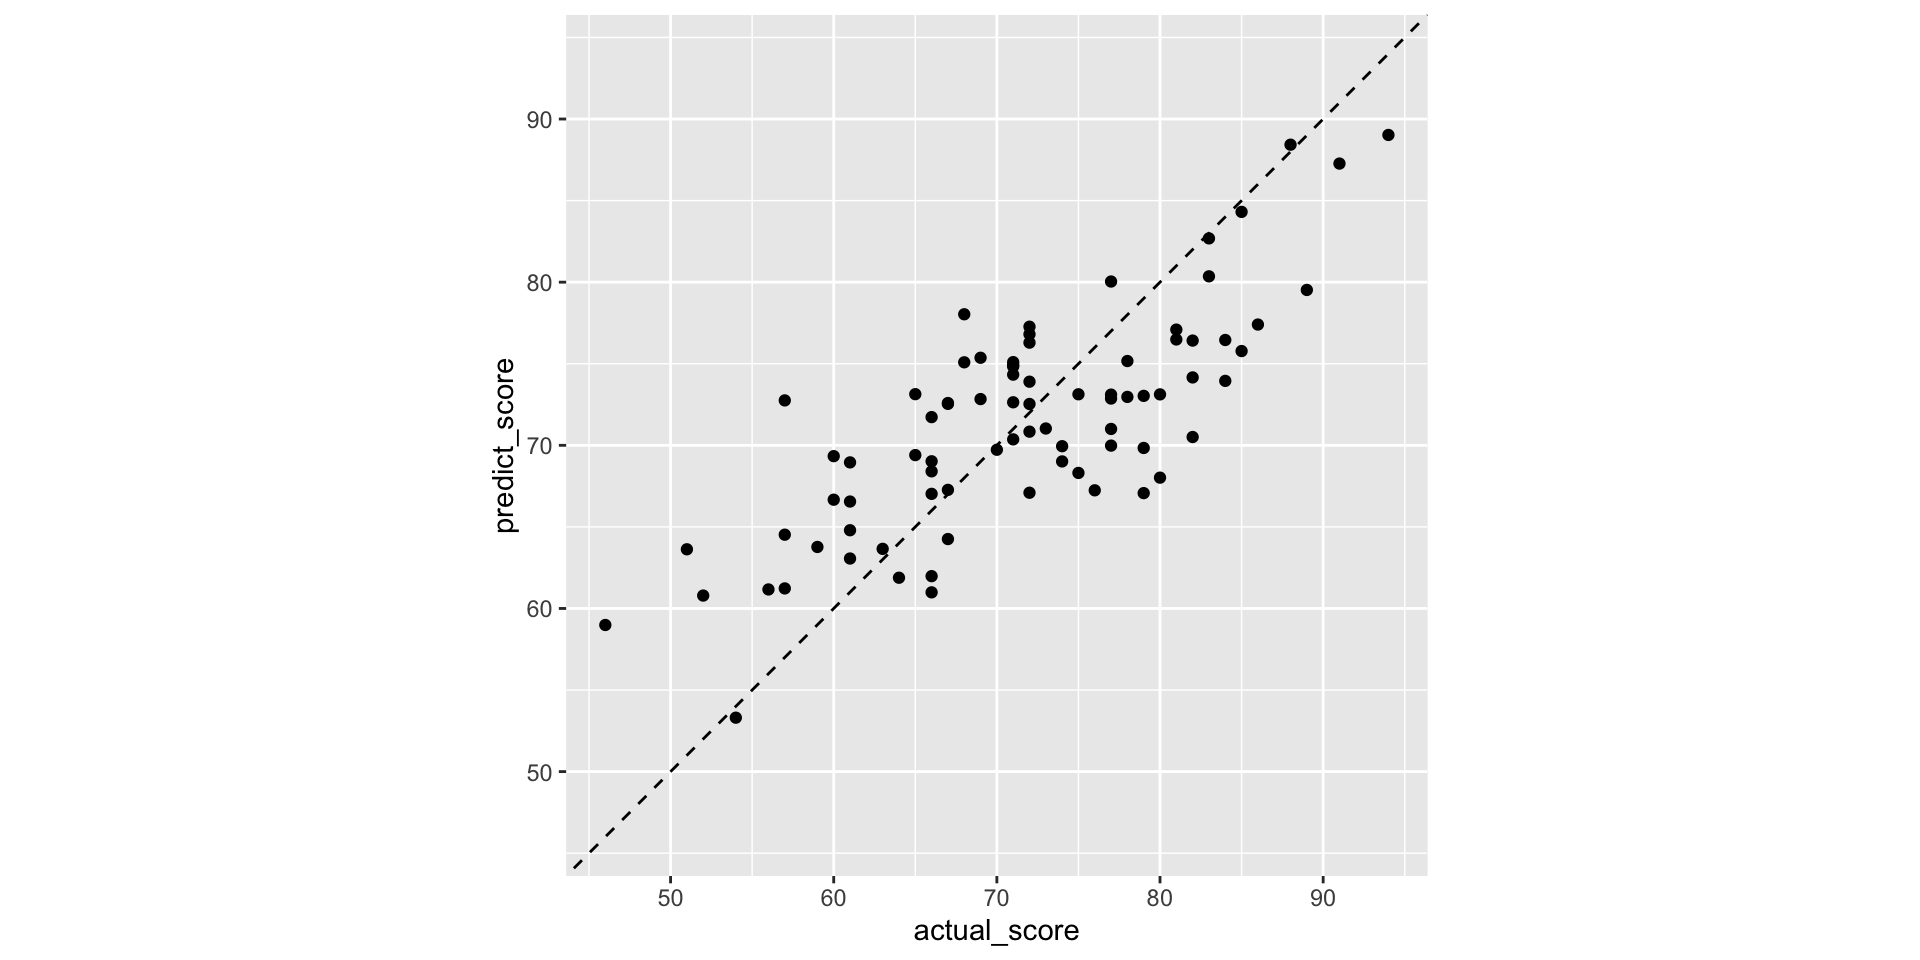
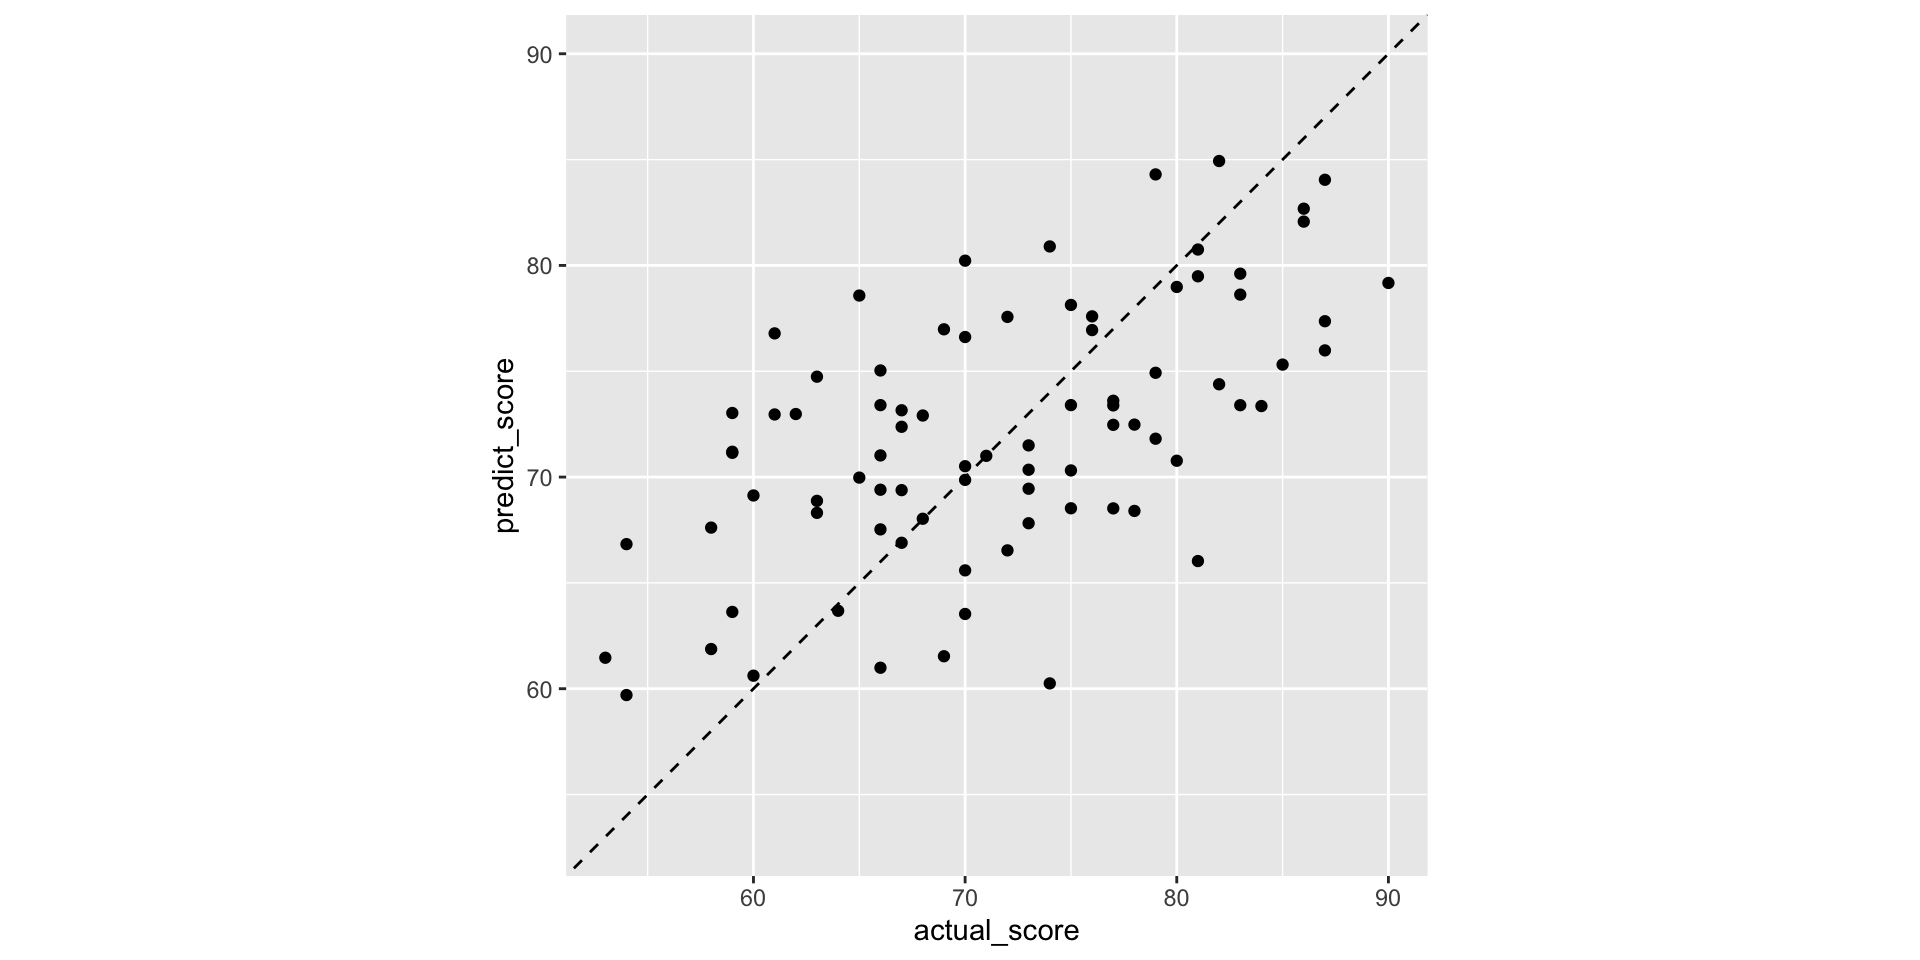
update footnote

diff --git a/MachineLearning/week01/introduction.html b/MachineLearning/week01/introduction.html
@@ -877,25 +877,25 @@ lm(formula = research_score ~ ., data = train_data)
 
 Residuals:
      Min       1Q   Median       3Q      Max 
--17.9964  -4.8771   0.3457   4.5288  18.9256 
+-18.6684  -4.5291   0.3305   4.6254  19.2074 
 
 Coefficients:
-                     Estimate Std. Error t value Pr(&gt;|t|)    
-(Intercept)          41.75668    4.95983   8.419 1.69e-15 ***
-choose_method         0.06877    0.02676   2.570 0.010659 *  
-concepts              0.15863    0.02967   5.347 1.80e-07 ***
-interpretation        0.19005    0.02959   6.422 5.39e-10 ***
-submit_time          -0.02495    0.01573  -1.586 0.113782    
-percent_submit        0.14318    0.03911   3.661 0.000298 ***
-learning_performance  0.05351    0.03893   1.374 0.170378    
-cheat_index          -2.69371    2.36279  -1.140 0.255192    
+                      Estimate Std. Error t value Pr(&gt;|t|)    
+(Intercept)          37.907590   4.961074   7.641 3.09e-13 ***
+choose_method         0.104122   0.025060   4.155 4.27e-05 ***
+concepts              0.149659   0.029413   5.088 6.47e-07 ***
+interpretation        0.212339   0.029799   7.126 8.08e-12 ***
+submit_time          -0.008356   0.016194  -0.516 0.606253    
+percent_submit        0.143992   0.036866   3.906 0.000117 ***
+learning_performance  0.070422   0.035977   1.957 0.051248 .  
+cheat_index          -4.754186   2.351948  -2.021 0.044149 *  
 ---
 Signif. codes:  0 '***' 0.001 '**' 0.01 '*' 0.05 '.' 0.1 ' ' 1
 
-Residual standard error: 7.18 on 294 degrees of freedom
-  (1 observation deleted due to missingness)
-Multiple R-squared:  0.4515,    Adjusted R-squared:  0.4384 
-F-statistic: 34.57 on 7 and 294 DF,  p-value: &lt; 2.2e-16</code></pre>
+Residual standard error: 6.899 on 293 degrees of freedom
+  (2 observations deleted due to missingness)
+Multiple R-squared:  0.5166,    Adjusted R-squared:  0.505 
+F-statistic: 44.73 on 7 and 293 DF,  p-value: &lt; 2.2e-16</code></pre>
 </div>
 </div>
 <ul>
@@ -912,12 +912,12 @@ F-statistic: 34.57 on 7 and 294 DF,  p-value: &lt; 2.2e-16</code></pre>
 <pre><code># A tibble: 6 × 2
   predict_score actual_score
           &lt;dbl&gt;        &lt;dbl&gt;
-1          73.9           72
-2          72.5           72
-3          74.3           71
-4          70.8           72
-5          69.8           79
-6          75.8           85</code></pre>
+1          78.1           75
+2          80.9           74
+3          77.0           69
+4          67.8           73
+5          79.6           83
+6          70.3           73</code></pre>
 </div>
 </div>
 <ul>
@@ -951,7 +951,7 @@ F-statistic: 34.57 on 7 and 294 DF,  p-value: &lt; 2.2e-16</code></pre>
 <pre><code># A tibble: 1 × 2
    rmse    r2
   &lt;dbl&gt; &lt;dbl&gt;
-1  6.22 0.607</code></pre>
+1  7.29 0.342</code></pre>
 </div>
 </div>
 <p>ผลการวิเคราะห์ข้างต้นเป็นประสิทธิภาพในของโมเดลที่เรียนรู้ใน <code>train_data</code> บนชุดข้อมูล <code>test_data</code></p>
@@ -991,7 +991,7 @@ Source: https://scott.fortmann-roe.com/docs/BiasVariance.html
 <div class="quarto-auto-generated-content">
 <p><img src="https://github.com/ssiwacho/picture/blob/main/datakruroo.png?raw=true" class="slide-logo"></p>
 <div class="footer footer-default">
-<p>week 1: 2758686 Data Visualization <br> ผศ.ดร.สิวะโชติ ศรีสุทธิยากร</p>
+<p>week 1: 2758623 Machine Learning Principles and Application<br> ผศ.ดร.สิวะโชติ ศรีสุทธิยากร</p>
 </div>
 </div>
 </section></section>
